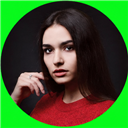
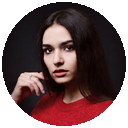
Remove fundo verde e alinha avatares

Changed region(s): [[0.0, 0.0, 1.0, 1.0]]

diff --git a/src/components/InterestProof/InterestProof.css b/src/components/InterestProof/InterestProof.css
@@ -1,8 +1,9 @@
-.interest-proof { max-width: 460px; margin-top: 14px; display: flex; align-items: center; justify-content: center; gap: 11px; color: #b9b2a8; font-size: 13px; line-height: 1.45; text-align: left; }
+.interest-proof { max-width: 460px; margin-top: 14px; display: flex; align-items: center; justify-content: center; gap: 10px; color: #b9b2a8; font-size: 12px; line-height: 1.4; text-align: left; }
 .interest-proof p { margin: 0; }
 .interest-proof strong { color: var(--ivory); font-weight: 700; }
-.interest-proof__photos { min-width: 84px; display: flex; align-items: center; }
-.interest-proof__photos img { width: 38px; height: 38px; margin-right: -9px; border: 2px solid #15130f; border-radius: 50%; object-fit: cover; box-shadow: 0 4px 12px rgba(0,0,0,.35); }
+.interest-proof__photos { min-width: 78px; display: flex; align-items: center; }
+.interest-proof__photos img { width: 34px; height: 34px; margin-right: -14px; border: 2px solid #15130f; border-radius: 50%; object-fit: cover; box-shadow: 0 4px 12px rgba(0,0,0,.35); }
+.interest-proof__photos img:last-child { margin-right: 0; }
 .interest-proof__people { width: 36px; height: 36px; flex: 0 0 auto; display: flex; align-items: center; justify-content: center; gap: 2px; border: 1px solid rgba(214,164,59,.3); border-radius: 50%; background: rgba(214,164,59,.08); }
 .interest-proof__people span { position: relative; width: 7px; height: 7px; border: 1px solid var(--gold-light); border-radius: 50%; }
 .interest-proof__people span::after { content: ''; position: absolute; left: 50%; top: 8px; width: 8px; height: 5px; border: 1px solid var(--gold-light); border-bottom: 0; border-radius: 7px 7px 0 0; transform: translateX(-50%); }
@@ -10,7 +11,7 @@
 
 @media (max-width: 430px) {
   .interest-proof { gap: 9px; font-size: 11px; line-height: 1.4; }
-  .interest-proof__photos { min-width: 72px; }
-  .interest-proof__photos img { width: 33px; height: 33px; margin-right: -8px; }
+  .interest-proof__photos { min-width: 71px; }
+  .interest-proof__photos img { width: 32px; height: 32px; margin-right: -13px; }
   .interest-proof__people { width: 33px; height: 33px; }
 }

diff --git a/src/components/HeroSection/Hero.css b/src/components/HeroSection/Hero.css
@@ -20,7 +20,7 @@
 .hero__price b { padding: 5px 8px; border: 1px solid rgba(223,169,54,.3); border-radius: 8px; color: #dca743; font-size: 13px; font-weight: 600; }
 .hero__price em { flex-basis: 100%; color: #8e877e; font-size: 13px; font-style: normal; text-transform: uppercase; }
 .hero .gold-button { width: min(410px,100%); }
-.hero__interest { width: min(440px,100%); justify-content: flex-start; }
+.hero__interest { width: min(410px,100%); justify-content: center; }
 .hero__microcopy { width: min(410px,100%); margin-top: 13px; color: #8f887f; font-size: 14px; line-height: 1.5; text-align: center; }
 .hero__scroll { position: absolute; bottom: 24px; left: 50%; display: flex; align-items: center; gap: 10px; transform: translateX(-50%); color: #777168; font-size: 12px; letter-spacing: .12em; text-transform: uppercase; }
 .hero__scroll span { width: 1px; height: 24px; background: linear-gradient(var(--gold),transparent); }
